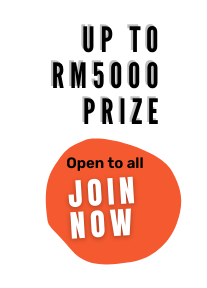
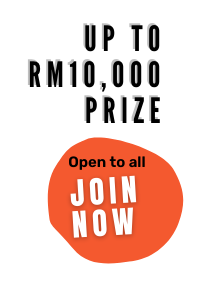
up awards

diff --git a/frontend/views/layouts/awards.php b/frontend/views/layouts/awards.php
@@ -26,7 +26,7 @@ use yii\helpers\Url;
                     <div class="pricing-content">
                   
                         <div class="price-value">
-                            <span class="amount">RM 5000.00</span>
+                            <span class="amount">RM 10,000.00</span>
                             <span class="duration">SIC OPEN</span>
                         </div>
                         <br /> <br />
